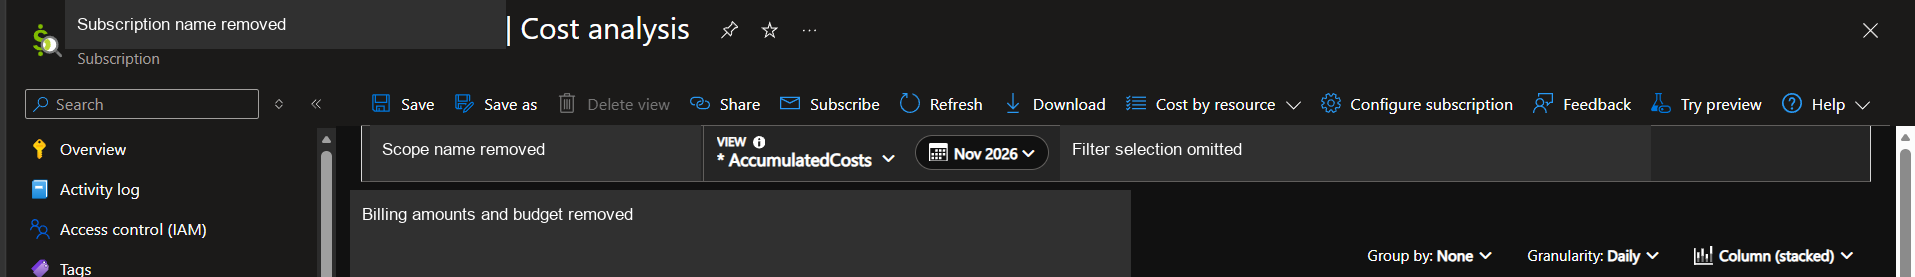
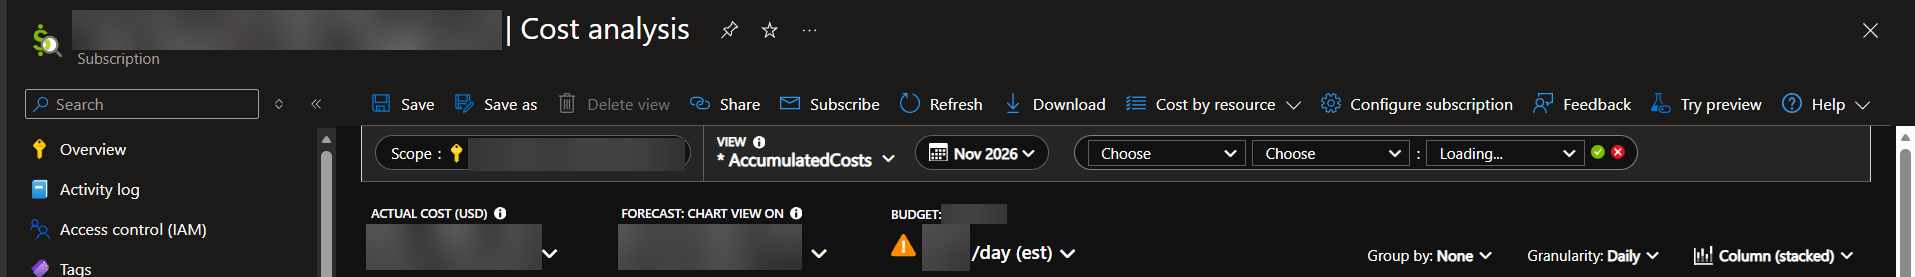
Use selective blur in the VM portal screenshot (#132)
Blur only sensitive fields without explanatory labels, retain the original portal controls, and simplify the caption. Synchronize source and hosted copies.

diff --git a/0_Azure/6_AzureCostManagement/demos/2_VM-Daily-Cost-and-Billed-Hours.md b/0_Azure/6_AzureCostManagement/demos/2_VM-Daily-Cost-and-Billed-Hours.md
@@ -14,7 +14,7 @@ Last updated: 2026-11-16
 Use **Cost analysis** to see how VM costs change by day. For the **billed compute quantity**, download or export the detailed usage records, select the VM compute meter measured in hours, and convert the decimal hours to hours and minutes. A Cost Management query can return daily costs, but it does not replace the detailed records needed for the quantity.
 
 > [!IMPORTANT]
-> Billing data, resource IDs, and exported files can be sensitive. This guide uses placeholders, public Microsoft Learn images, and a cropped, redacted portal reference. No subscription identifiers or billing values are published. Do not publish unredacted portal screenshots, account or subscription IDs, resource names, invoices, tokens, or downloaded reports.
+> Billing data, resource IDs, and exported files can be sensitive. This guide uses placeholders, public Microsoft Learn images, and a portal reference. No subscription identifiers or billing values are published. Do not publish unredacted portal screenshots, account or subscription IDs, resource names, invoices, tokens, or downloaded reports.
 
 <details>
 <summary><b>Table of Contents</b> (Click to expand)</summary>
@@ -50,7 +50,7 @@ Use **Cost analysis** to see how VM costs change by day. For the **billed comput
 - [Query API](https://learn.microsoft.com/en-us/rest/api/cost-management/query/usage?view=rest-cost-management-2025-03-01)
 - [Generate Cost Details Report API](https://learn.microsoft.com/en-us/rest/api/cost-management/generate-cost-details-report/create-operation?view=rest-cost-management-2025-03-01)
 
-**Image credits:** The eight local `learn-*.png` screenshots are unmodified public examples from Microsoft Learn's **Customize Cost Analysis views** and **Common Cost Analysis uses**, linked in their captions. Copyright Microsoft; reproduced under [CC BY 4.0](https://creativecommons.org/licenses/by/4.0/) as provided by the [Azure documentation license](https://github.com/MicrosoftDocs/azure-docs/blob/main/LICENSE). They show Microsoft's example names, dates, and costs, not your subscription. The existing public images and redacted portal reference are identified separately in their captions. Portal layouts can change.
+**Image credits:** The eight local `learn-*.png` screenshots are unmodified public examples from Microsoft Learn's **Customize Cost Analysis views** and **Common Cost Analysis uses**, linked in their captions. Copyright Microsoft; reproduced under [CC BY 4.0](https://creativecommons.org/licenses/by/4.0/) as provided by the [Azure documentation license](https://github.com/MicrosoftDocs/azure-docs/blob/main/LICENSE). They show Microsoft's example names, dates, and costs, not your subscription. The existing public images and portal reference are identified separately in their captions. Portal layouts can change.
 
 </details>
 
@@ -113,9 +113,9 @@ Use **Group by** to split the selected costs into categories; it does not itself
 
 *Choose a grouping after applying filters. Public Microsoft Learn example from [View cost breakdown by selected dimensions](https://learn.microsoft.com/en-us/azure/cost-management-billing/costs/cost-analysis-common-uses#view-cost-breakdown-by-selected-dimensions). This illustrates the selector, not a VM-only result.*
 
-![Redacted Azure portal reference showing Cost analysis, Download, and Daily granularity](./media/azure-cost-analysis-daily-redacted.png)
+![Azure portal reference showing Cost analysis, Download, filter controls, and Daily granularity](./media/azure-cost-analysis-daily-redacted.png)
 
-*Captured from a signed-in Azure portal session on November 16, 2026. Browser chrome, identity, subscription name, scope name, filter selection, billing amounts, budget, and charts have been cropped out or covered with opaque redactions. This reference shows the toolbar and **Granularity: Daily** control, not a VM-filtered result or a downloaded usage report. Changing the granularity does not rename the selected view. The **Download** toolbar action is not a substitute for obtaining the detailed usage records described below. No live REST API request was validated in this session.*
+*Azure portal reference captured on November 16, 2026, showing the toolbar, filter controls, and **Granularity: Daily**. This is not a VM-filtered result or a downloaded usage report. Changing the granularity does not rename the selected view. The **Download** toolbar action is not a substitute for obtaining the detailed usage records described below. No live REST API request was validated in this session.*
 
 ![Public Microsoft Learn example of Cost analysis filtered to Virtual Machines](https://learn.microsoft.com/en-us/azure/virtual-machines/media/plan-to-manage-costs/virtual-machines-pricing-costs-service-filter.png)
 

diff --git a/docs/source/0_Azure/6_AzureCostManagement/demos/2_VM-Daily-Cost-and-Billed-Hours.md b/docs/source/0_Azure/6_AzureCostManagement/demos/2_VM-Daily-Cost-and-Billed-Hours.md
@@ -14,7 +14,7 @@ Last updated: 2026-11-16
 Use **Cost analysis** to see how VM costs change by day. For the **billed compute quantity**, download or export the detailed usage records, select the VM compute meter measured in hours, and convert the decimal hours to hours and minutes. A Cost Management query can return daily costs, but it does not replace the detailed records needed for the quantity.
 
 > [!IMPORTANT]
-> Billing data, resource IDs, and exported files can be sensitive. This guide uses placeholders, public Microsoft Learn images, and a cropped, redacted portal reference. No subscription identifiers or billing values are published. Do not publish unredacted portal screenshots, account or subscription IDs, resource names, invoices, tokens, or downloaded reports.
+> Billing data, resource IDs, and exported files can be sensitive. This guide uses placeholders, public Microsoft Learn images, and a portal reference. No subscription identifiers or billing values are published. Do not publish unredacted portal screenshots, account or subscription IDs, resource names, invoices, tokens, or downloaded reports.
 
 <details>
 <summary><b>Table of Contents</b> (Click to expand)</summary>
@@ -50,7 +50,7 @@ Use **Cost analysis** to see how VM costs change by day. For the **billed comput
 - [Query API](https://learn.microsoft.com/en-us/rest/api/cost-management/query/usage?view=rest-cost-management-2025-03-01)
 - [Generate Cost Details Report API](https://learn.microsoft.com/en-us/rest/api/cost-management/generate-cost-details-report/create-operation?view=rest-cost-management-2025-03-01)
 
-**Image credits:** The eight local `learn-*.png` screenshots are unmodified public examples from Microsoft Learn's **Customize Cost Analysis views** and **Common Cost Analysis uses**, linked in their captions. Copyright Microsoft; reproduced under [CC BY 4.0](https://creativecommons.org/licenses/by/4.0/) as provided by the [Azure documentation license](https://github.com/MicrosoftDocs/azure-docs/blob/main/LICENSE). They show Microsoft's example names, dates, and costs, not your subscription. The existing public images and redacted portal reference are identified separately in their captions. Portal layouts can change.
+**Image credits:** The eight local `learn-*.png` screenshots are unmodified public examples from Microsoft Learn's **Customize Cost Analysis views** and **Common Cost Analysis uses**, linked in their captions. Copyright Microsoft; reproduced under [CC BY 4.0](https://creativecommons.org/licenses/by/4.0/) as provided by the [Azure documentation license](https://github.com/MicrosoftDocs/azure-docs/blob/main/LICENSE). They show Microsoft's example names, dates, and costs, not your subscription. The existing public images and portal reference are identified separately in their captions. Portal layouts can change.
 
 </details>
 
@@ -113,9 +113,9 @@ Use **Group by** to split the selected costs into categories; it does not itself
 
 *Choose a grouping after applying filters. Public Microsoft Learn example from [View cost breakdown by selected dimensions](https://learn.microsoft.com/en-us/azure/cost-management-billing/costs/cost-analysis-common-uses#view-cost-breakdown-by-selected-dimensions). This illustrates the selector, not a VM-only result.*
 
-![Redacted Azure portal reference showing Cost analysis, Download, and Daily granularity](./media/azure-cost-analysis-daily-redacted.png)
+![Azure portal reference showing Cost analysis, Download, filter controls, and Daily granularity](./media/azure-cost-analysis-daily-redacted.png)
 
-*Captured from a signed-in Azure portal session on November 16, 2026. Browser chrome, identity, subscription name, scope name, filter selection, billing amounts, budget, and charts have been cropped out or covered with opaque redactions. This reference shows the toolbar and **Granularity: Daily** control, not a VM-filtered result or a downloaded usage report. Changing the granularity does not rename the selected view. The **Download** toolbar action is not a substitute for obtaining the detailed usage records described below. No live REST API request was validated in this session.*
+*Azure portal reference captured on November 16, 2026, showing the toolbar, filter controls, and **Granularity: Daily**. This is not a VM-filtered result or a downloaded usage report. Changing the granularity does not rename the selected view. The **Download** toolbar action is not a substitute for obtaining the detailed usage records described below. No live REST API request was validated in this session.*
 
 ![Public Microsoft Learn example of Cost analysis filtered to Virtual Machines](https://learn.microsoft.com/en-us/azure/virtual-machines/media/plan-to-manage-costs/virtual-machines-pricing-costs-service-filter.png)
 
